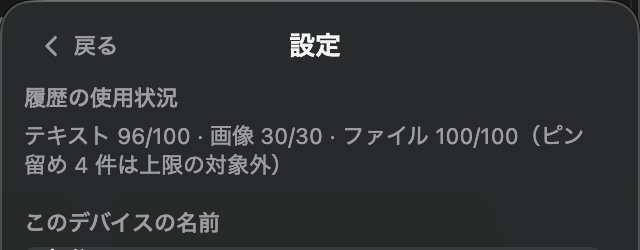
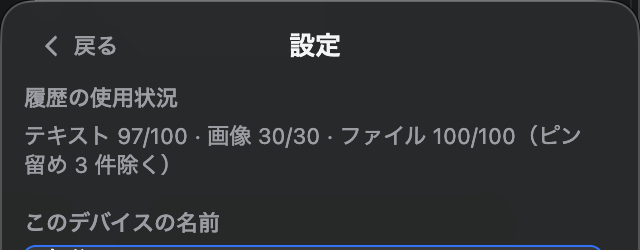
feat: テストアカウントのピン留めを解除し、表示テキストを更新

Changed region(s): [[0.1875, 0.504, 0.9062, 0.588], [0.0938, 0.616, 0.4375, 0.7], [0.0312, 0.98, 0.9375, 1.0]]

diff --git a/site/portfolio/index.html b/site/portfolio/index.html
@@ -530,7 +530,6 @@
     { group: '今日', pinned: true, kind: 'clip-text', name: '【メール署名（社内向け）】', meta: 'テキスト · 15:01', sourceApp: { name: 'Outlook', icon: ICON_DIR + 'outlook.png' }, copy: '-------------------\n山田 太郎\nECサイト改修プロジェクト担当 / example-team\nTel: 03-1234-5678\n-------------------' },
     { group: '今日', pinned: true, kind: 'clip-text', name: '【社内Wi-Fi パスワード】', meta: 'テキスト · 15:01', sourceApp: { name: 'Notion', icon: ICON_DIR + 'notion.png' }, device: '自宅iMac', copy: 'Wi-Fiパスワード: sample-wifi-pass-2026' },
     { group: '今日', pinned: true, kind: 'clip-text', name: '【決済API サンドボックスキー】', meta: 'テキスト · 20:02', sourceApp: { name: 'ターミナル', icon: ICON_DIR + 'terminal.png' }, copy: '決済APIのサンドボックスキー: sk_test_xxxxxxxx' },
-    { group: '今日', pinned: true, kind: 'clip-text', name: '【テストアカウント パスワード】', meta: 'テキスト · 2:01', sourceApp: { name: 'Notion', icon: ICON_DIR + 'notion.png' }, copy: 'テストアカウント: qa-user01@example.com / Passw0rd!' },
     { group: '今日', kind: 'file', name: '見積書_ECサイト改修_v2.pdf', meta: 'PDF書類 · 20:21', icon: ICON_DIR + 'file-pdf.png', device: '会社用PC', copy: '見積書_ECサイト改修_v2.pdf' },
     { group: '今日', kind: 'clip-text', name: '会議室Bを10:00〜11:00で予約しました。プロジェクターの予約も忘れずに。', meta: 'テキスト · 17:00', sourceApp: { name: 'Notion', icon: ICON_DIR + 'notion.png' }, copy: '会議室Bを10:00〜11:00で予約しました。プロジェクターの予約も忘れずに。' },
     { group: '今日', kind: 'clip-text', name: 'https://github.com/example-team/ec-renewal/pull/42', meta: 'リンク · 16:53', sourceApp: { name: 'Chrome', icon: ICON_DIR + 'chrome.png' }, copy: 'https://github.com/example-team/ec-renewal/pull/42' },

diff --git a/site/public/index.html b/site/public/index.html
@@ -439,7 +439,6 @@
     { group: '今日', pinned: true, kind: 'clip-text', name: '【メール署名（社内向け）】', meta: 'テキスト · 15:01', sourceApp: { name: 'Outlook', icon: ICON_DIR + 'outlook.png' }, copy: '-------------------\n山田 太郎\nECサイト改修プロジェクト担当 / example-team\nTel: 03-1234-5678\n-------------------' },
     { group: '今日', pinned: true, kind: 'clip-text', name: '【社内Wi-Fi パスワード】', meta: 'テキスト · 15:01', sourceApp: { name: 'Notion', icon: ICON_DIR + 'notion.png' }, device: '自宅iMac', copy: 'Wi-Fiパスワード: sample-wifi-pass-2026' },
     { group: '今日', pinned: true, kind: 'clip-text', name: '【決済API サンドボックスキー】', meta: 'テキスト · 20:02', sourceApp: { name: 'ターミナル', icon: ICON_DIR + 'terminal.png' }, copy: '決済APIのサンドボックスキー: sk_test_xxxxxxxx' },
-    { group: '今日', pinned: true, kind: 'clip-text', name: '【テストアカウント パスワード】', meta: 'テキスト · 2:01', sourceApp: { name: 'Notion', icon: ICON_DIR + 'notion.png' }, copy: 'テストアカウント: qa-user01@example.com / Passw0rd!' },
     { group: '今日', kind: 'file', name: '見積書_ECサイト改修_v2.pdf', meta: 'PDF書類 · 20:21', icon: ICON_DIR + 'file-pdf.png', device: '会社用PC', copy: '見積書_ECサイト改修_v2.pdf' },
     { group: '今日', kind: 'clip-text', name: '会議室Bを10:00〜11:00で予約しました。プロジェクターの予約も忘れずに。', meta: 'テキスト · 17:00', sourceApp: { name: 'Notion', icon: ICON_DIR + 'notion.png' }, copy: '会議室Bを10:00〜11:00で予約しました。プロジェクターの予約も忘れずに。' },
     { group: '今日', kind: 'clip-text', name: 'https://github.com/example-team/ec-renewal/pull/42', meta: 'リンク · 16:53', sourceApp: { name: 'Chrome', icon: ICON_DIR + 'chrome.png' }, copy: 'https://github.com/example-team/ec-renewal/pull/42' },

diff --git a/main.js b/main.js
@@ -4332,11 +4332,7 @@ app.whenReady().then(() => {
                 signature.customTitle = '【メール署名（社内向け）】';
               }
               const findText = (keyword) => items.find((it) => it.kind === 'clip-text' && it.text && it.text.includes(keyword));
-              const qaAccount = findText('テストアカウント: qa-user01');
-              if (qaAccount) {
-                qaAccount.pinned = true;
-                qaAccount.customTitle = '【テストアカウント パスワード】';
-              }
+              // テストアカウントは本文が長く、リストで見切れてしまうためピン留めから外した
               const paymentKey = findText('sk_test_xxxxxxxx');
               if (paymentKey) {
                 paymentKey.pinned = true;

diff --git a/renderer.js b/renderer.js
@@ -2127,7 +2127,7 @@ function updateHistoryUsage() {
   const fileCount = nonPinned.filter((it) => it.kind === 'file').length;
   const pinnedCount = items.length - nonPinned.length;
   let text = `テキスト ${textCount}/${MAX_TEXT_CLIP_ITEMS} · 画像 ${imageCount}/${MAX_IMAGE_CLIP_ITEMS} · ファイル ${fileCount}/${MAX_FILE_ITEMS}`;
-  if (pinnedCount > 0) text += `（ピン留め ${pinnedCount} 件は上限の対象外）`;
+  if (pinnedCount > 0) text += `（ピン留め ${pinnedCount} 件除く）`;
   settingHistoryUsage.textContent = text;
 }
 
